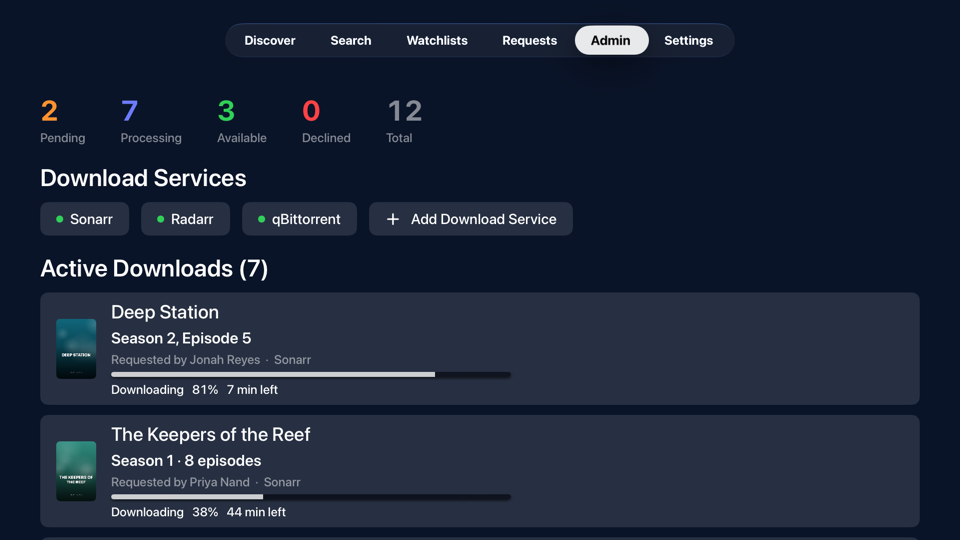
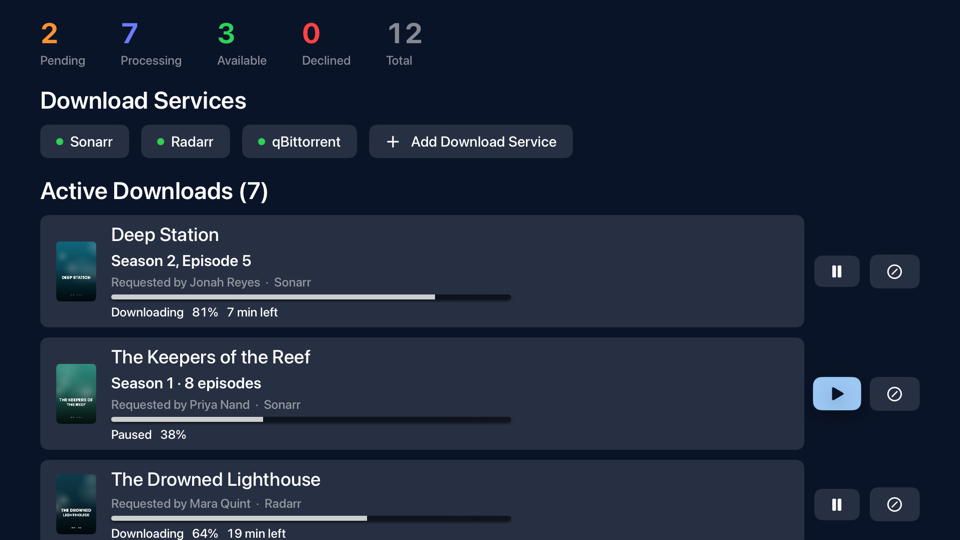
Move pause/resume and cancel to Active Downloads
The request rows go back to Details and Delete. Each Active Downloads row now
has the pause/play and cancel buttons beside it. Retake the Admin screenshots
and update the README.

diff --git a/Mindseerr/Views/Admin/AdminView.swift b/Mindseerr/Views/Admin/AdminView.swift
@@ -128,15 +128,6 @@ struct AdminView: View {
         }
     }
 
-    private func togglePause(_ download: ArrDownload, for request: MediaRequest) {
-        guard !busyIDs.contains(request.id) else { return }
-        busyIDs.insert(request.id)
-        Task {
-            defer { busyIDs.remove(request.id) }
-            do { try await monitor.togglePause(download) } catch { notice = AppState.friendly(error) }
-        }
-    }
-
     private func cancel(_ download: ArrDownload) {
         Task {
             do { try await monitor.cancel(download) } catch { notice = AppState.friendly(error) }
@@ -210,7 +201,8 @@ struct AdminView: View {
             } else {
                 LazyVStack(alignment: .leading, spacing: 20) {
                     ForEach(downloads) { download in
-                        DownloadRow(download: download, request: request(for: download))
+                        DownloadRow(download: download, request: request(for: download),
+                                    onCancel: { downloadToCancel = download })
                     }
                 }
             }
@@ -255,9 +247,6 @@ struct AdminView: View {
                         request: request,
                         busy: busyIDs.contains(request.id),
                         download: downloads.first { $0.matches(request.media) },
-                        canPause: downloads.first { $0.matches(request.media) }.map(monitor.canPause) ?? false,
-                        onTogglePause: { if let d = downloads.first(where: { $0.matches(request.media) }) { togglePause(d, for: request) } },
-                        onCancelDownload: { downloadToCancel = downloads.first { $0.matches(request.media) } },
                         onApprove: {
                             act(on: request, removeWhenDone: filter == .pending) { _ = try await $0.approve(requestID: request.id) }
                         },
@@ -396,10 +385,6 @@ struct AdminRequestRow: View {
     let busy: Bool
     /// The Sonarr/Radarr download for this request's title, if one is in a queue (shows a Downloading tag).
     var download: ArrDownload?
-    /// Whether the download can be paused and resumed (its torrent is on a connected qBittorrent server).
-    var canPause = false
-    var onTogglePause: () -> Void = {}
-    var onCancelDownload: () -> Void = {}
     let onApprove: () -> Void
     let onDecline: () -> Void
     let onRetry: () -> Void
@@ -445,19 +430,6 @@ struct AdminRequestRow: View {
                     }
                     if let route = request.route {
                         NavigationLink(value: route) { Label("Details", systemImage: "info.circle") }
-                    }
-                    // Controls for the download itself, only while the title is in a Sonarr/Radarr queue.
-                    if let download {
-                        if canPause {
-                            Button(action: onTogglePause) {
-                                Image(systemName: download.phase == .paused ? "play.fill" : "pause.fill")
-                            }
-                            .accessibilityLabel(download.phase == .paused ? "Resume download" : "Pause download")
-                        }
-                        Button(action: onCancelDownload) {
-                            Image(systemName: "slash.circle")
-                        }
-                        .accessibilityLabel("Cancel download")
                     }
                     Button(role: .destructive, action: onDelete) {
                         Label("Delete", systemImage: "trash")

diff --git a/Mindseerr/Views/Admin/DownloadsViews.swift b/Mindseerr/Views/Admin/DownloadsViews.swift
@@ -118,14 +118,18 @@ struct DownloadRow: View {
     @Environment(AppState.self) private var app
     let download: ArrDownload
     let request: MediaRequest?
+    /// Asks the Admin screen to confirm and cancel this download.
+    let onCancel: () -> Void
 
     @State private var detail: MediaDetail?
+    @State private var pausing = false
+    @State private var notice: String?
 
     /// Sonarr v3 doesn't report TMDB IDs, so fall back to the matched request's title.
     private var route: MediaRoute? { download.route ?? request?.route }
 
     var body: some View {
-        Group {
+        HStack(spacing: 20) {
             if let route {
                 NavigationLink(value: route) { content }
             } else {
@@ -136,10 +140,45 @@ struct DownloadRow: View {
                     .background(Color.primary.opacity(0.05), in: RoundedRectangle(cornerRadius: 16))
                     .focusable()
             }
+            if app.downloads.canPause(download) { pauseButton }
+            cancelButton
         }
+        .focusSection()
         .task(id: route) {
             if let route { detail = try? await app.api.detail(for: route) }
         }
+        .alert("Download", isPresented: Binding(get: { notice != nil }, set: { if !$0 { notice = nil } })) {
+            Button("OK", role: .cancel) {}
+        } message: {
+            Text(notice ?? "")
+        }
+    }
+
+    /// Takes the download out of the queue and the download client (after a confirmation on the Admin screen).
+    private var cancelButton: some View {
+        Button(action: onCancel) {
+            Image(systemName: "slash.circle")
+        }
+        .accessibilityLabel("Cancel download")
+    }
+
+    /// Pauses the download in qBittorrent, or resumes it when it's paused.
+    private var pauseButton: some View {
+        Button {
+            guard !pausing else { return }
+            pausing = true
+            Task {
+                defer { pausing = false }
+                do { try await app.downloads.togglePause(download) } catch { notice = AppState.friendly(error) }
+            }
+        } label: {
+            if pausing {
+                ProgressView()
+            } else {
+                Image(systemName: download.phase == .paused ? "play.fill" : "pause.fill")
+            }
+        }
+        .accessibilityLabel(download.phase == .paused ? "Resume download" : "Pause download")
     }
 
     private var content: some View {

diff --git a/README.md b/README.md
@@ -28,7 +28,7 @@ The request list knows what's downloading too. Any request whose title is in a S
 
 ### Admin panel: pause, resume and cancel downloads
 
-Next to **Details** on any request that's downloading are two round buttons. **Pause** (and **Play** to resume it) controls the torrent in qBittorrent, and shows once qBittorrent is connected and is holding that download. **Cancel**, the circle with a line through it, takes the download out of the Sonarr or Radarr queue and deletes the partial download from your download client, after asking you to confirm. The request stays in Seerr, so you can retry it later.
+On each row of **Active Downloads** are two round buttons. **Pause** (and **Play** to resume it) controls the torrent in qBittorrent, and shows once qBittorrent is connected and is holding that download. **Cancel**, the circle with a line through it, takes the download out of the Sonarr or Radarr queue and deletes the partial download from your download client, after asking you to confirm. The request stays in Seerr, so you can retry it later.
 
 ### Detail page
 
@@ -89,7 +89,7 @@ Top Shelf is on by default. To change it, open **Settings** and select **Top She
 - **Plex sign-in** with the TV-friendly code flow: the app shows a 4-character code, you enter it at plex.tv/link on any device.
 - **Jellyfin and Emby sign-in** with your media server username and password. The app asks Seerr which server it uses and shows the right screen.
 - **Seerr account sign-in** (email and password, for accounts created in Seerr) and **API key sign-in** (signs in as the server's main admin account). Both are offered under "Or sign in with" on the sign-in screen.
-- **Download controls**: connect qBittorrent to pause, resume or cancel a request's download right from the Admin tab.
+- **Download controls**: connect qBittorrent to pause, resume or cancel a download right from Active Downloads on the Admin tab.
 - **Admin tab** for admins and users with the Manage Requests permission: request counts, filters (Pending, Processing, Failed, Available, All), Approve, Decline, Approve All, Retry for failed requests, and Delete.
 - **Eight themes** to choose from in Settings → Look and Feel → Appearance: Sludge, Bile, Gloam (the default), Despair, Rage, Abyss, Smoke and Mist. Abyss is true black (#000000) so OLED pixels stay off behind the UI, and Mist is a light off-white theme.
 - **About page**, opened from the logo at the bottom of Settings, with the version, a link to the GitHub project and credits for Trakt, TMDB, TheTVDB and Plex.
